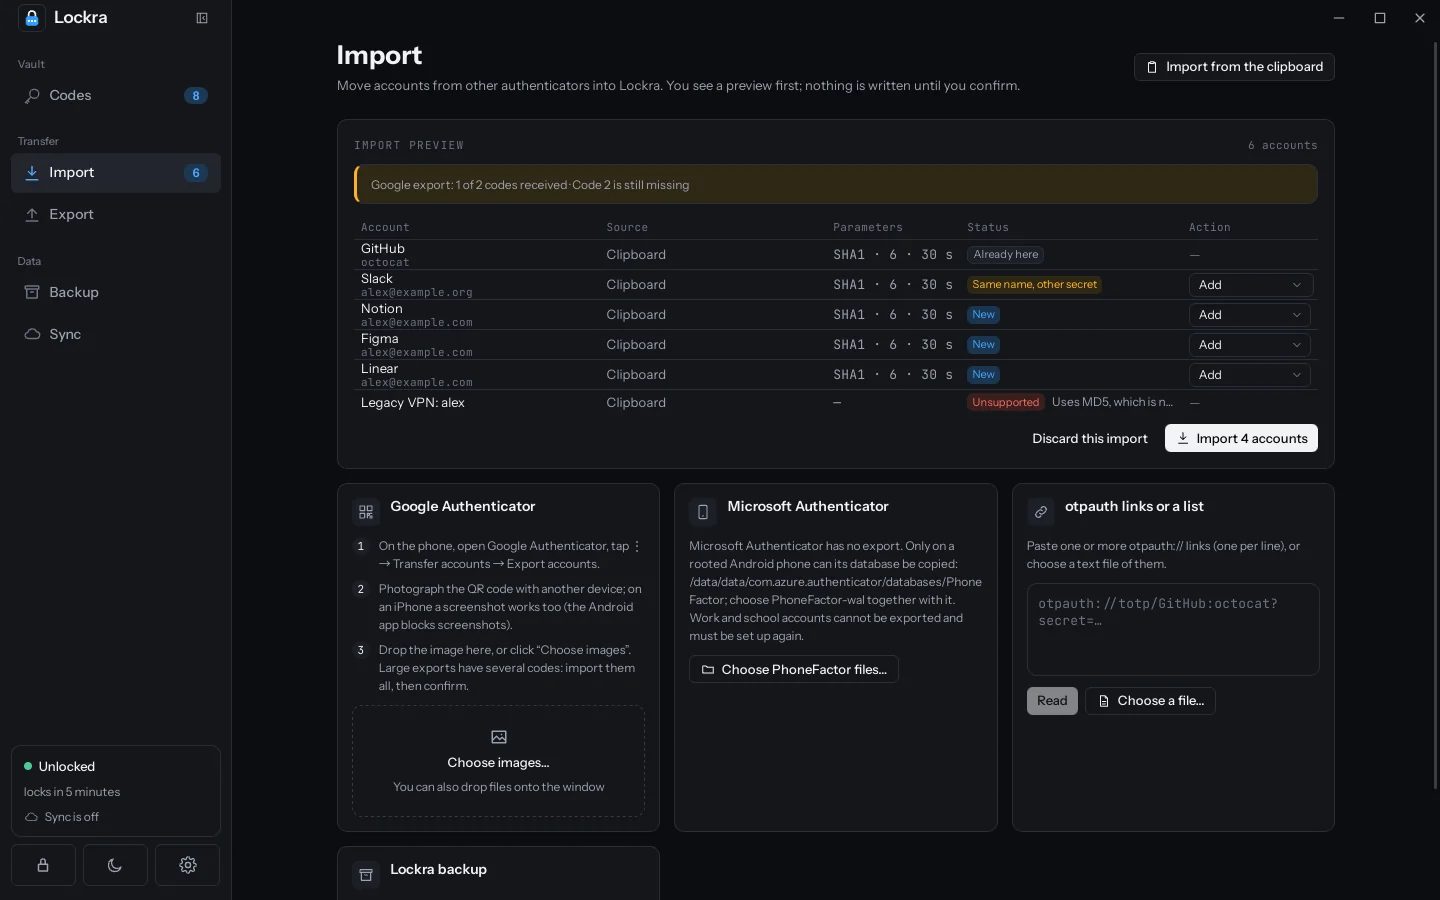
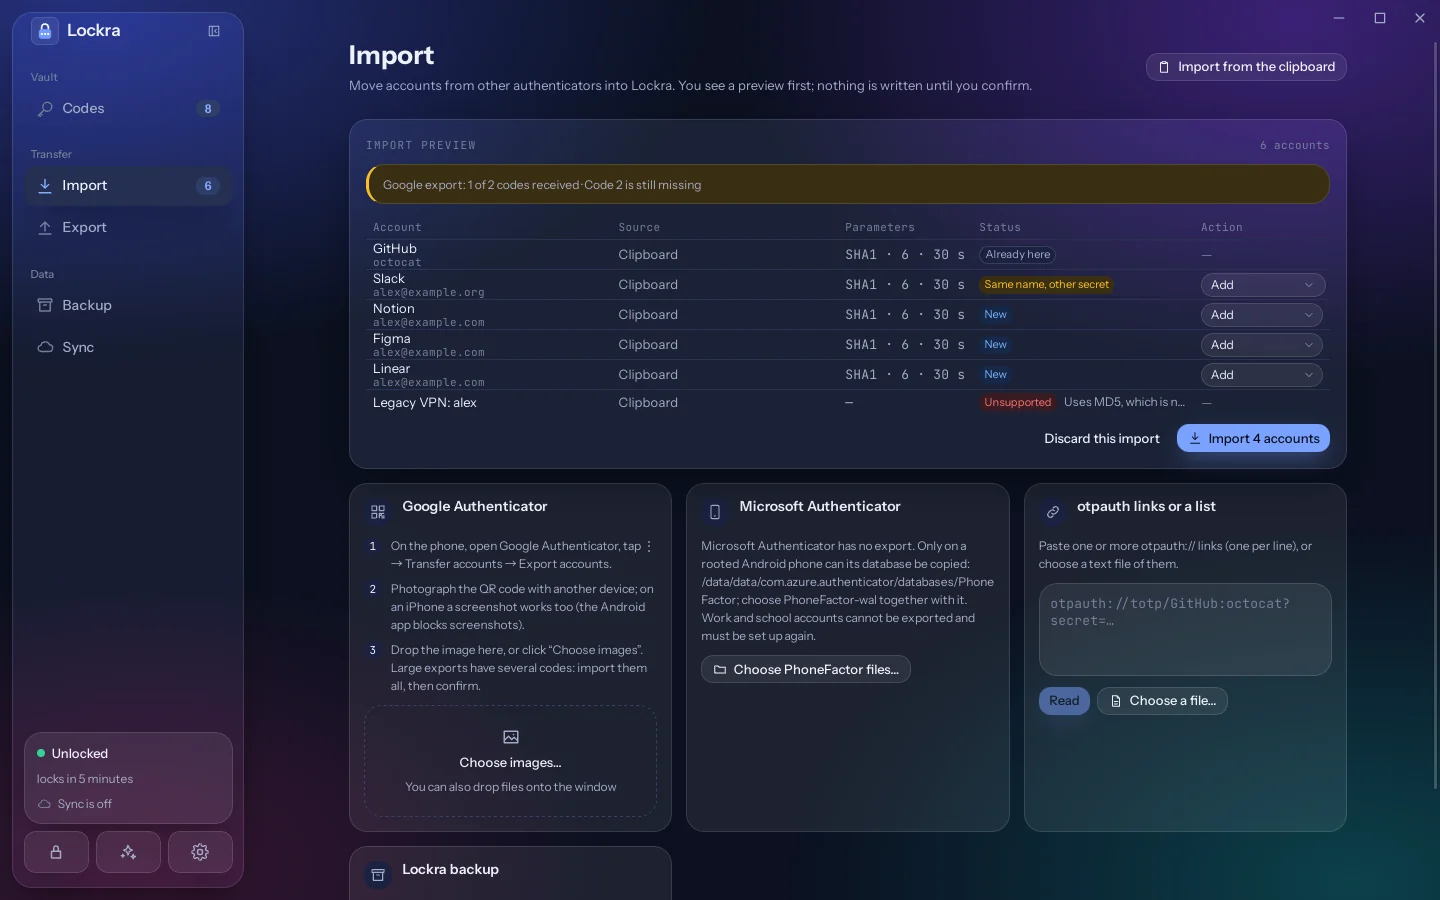
feat: 新安装默认使用澄空主题 (#120)
新安装默认「澄空」并跟随系统（深色系统显示「澄空 · 夜」）；已有保险库却没有 settings.json 的设备（0.9.1 以前从未改过设置）保持「明亮」，首次启动即写入 settings.json。页面在设置到达前先按澄空绘制；README 与文档站截图改用澄空 / 澄空 · 夜。

Release-As: 0.9.1

diff --git a/apps/desktop/src/pages/settings/Settings.test.tsx b/apps/desktop/src/pages/settings/Settings.test.tsx
@@ -70,7 +70,7 @@ describe("SettingsDialog", () => {
     const dialog = await openSettings(user, "外观");
     await user.click(dialog.getByRole("switch", { name: "跟随系统" }));
     expect(backend.calls.at(-1)).toMatchObject({
-      settings: { follow_system_theme: false, theme: "light" },
+      settings: { follow_system_theme: false, theme: "glass" },
     });
     await user.click(dialog.getByRole("radio", { name: /暖纸/ }));
     expect(document.documentElement.dataset.theme).toBe("warm");
@@ -108,18 +108,18 @@ describe("SettingsDialog", () => {
     expect(grid.getByText("浅色")).toBeInTheDocument();
     expect(grid.getByText("深色")).toBeInTheDocument();
     expect(dialog.getByText(/^跟随系统时，同一列的浅色与深色自动切换/)).toBeInTheDocument();
-    // jsdom's system is light: following it, the light column picked is what shows, linked to its
-    // dark one.
-    expect(grid.getByRole("radio", { name: "明亮" })).toHaveAttribute("aria-checked", "true");
-    expect(grid.getByTestId("theme-pair")).toHaveAttribute("data-column", "light");
-    await user.click(grid.getByRole("radio", { name: "澄空" }));
+    // jsdom's system is light: following it, the light column picked (澄空, the default) is what
+    // shows, linked to its dark one.
+    expect(grid.getByRole("radio", { name: "澄空" })).toHaveAttribute("aria-checked", "true");
+    expect(grid.getByTestId("theme-pair")).toHaveAttribute("data-column", "glass");
+    await user.click(grid.getByRole("radio", { name: "明亮" }));
     expect(backend.calls.at(-1)).toMatchObject({
       command: "settings_set",
-      settings: { theme: "glass", follow_system_theme: true },
+      settings: { theme: "light", follow_system_theme: true },
     });
-    expect(document.documentElement.dataset.theme).toBe("glass");
-    expect(dialog.getByText("跟随系统 · 现在是澄空")).toBeInTheDocument();
-    expect(grid.getByTestId("theme-pair")).toHaveAttribute("data-column", "glass");
+    expect(document.documentElement.dataset.theme).toBe("light");
+    expect(dialog.getByText("跟随系统 · 现在是明亮")).toBeInTheDocument();
+    expect(grid.getByTestId("theme-pair")).toHaveAttribute("data-column", "light");
     // The other scheme is a choice of its own: following stops, and it shows.
     await user.click(grid.getByRole("radio", { name: "墨白 · 夜" }));
     expect(backend.calls.at(-1)).toMatchObject({

diff --git a/packages/ui/src/hooks/appearance.test.tsx b/packages/ui/src/hooks/appearance.test.tsx
@@ -22,7 +22,8 @@ describe("useAppearance", () => {
       const { rerender } = renderHook(({ s }) => useAppearance(s), {
         initialProps: { s: settings },
       });
-      expect(document.documentElement.dataset.theme).toBe("dark");
+      // The default, 澄空, follows the system within its pair.
+      expect(document.documentElement.dataset.theme).toBe("glass_night");
       expect(document.documentElement.dataset.accent).toBe("purple");
       expect(document.documentElement.dataset.density).toBe("compact");
       rerender({ s: { ...settings, follow_system_theme: false, theme: "warm" } });
@@ -32,7 +33,7 @@ describe("useAppearance", () => {
       act(() => {
         for (const l of listeners) l();
       });
-      expect(document.documentElement.dataset.theme).toBe("light");
+      expect(document.documentElement.dataset.theme).toBe("glass");
     } finally {
       vi.unstubAllGlobals();
     }

diff --git a/packages/shared/src/schema.ts b/packages/shared/src/schema.ts
@@ -94,7 +94,7 @@ export type Settings = z.infer<typeof settingsSchema>;
 /** The defaults of lockra-core `Settings::default()` (the mock backend and the tests start here). */
 export function defaultSettings(): Settings {
   return {
-    theme: "light",
+    theme: "glass",
     follow_system_theme: true,
     accent: "default",
     density: "default",

diff --git a/apps/desktop/index.html b/apps/desktop/index.html
@@ -1,5 +1,5 @@
 <!doctype html>
-<html lang="zh-CN" data-theme="light">
+<html lang="zh-CN" data-theme="glass">
   <head>
     <meta charset="UTF-8" />
     <meta name="viewport" content="width=device-width, initial-scale=1.0" />

diff --git a/apps/mobile/index.html b/apps/mobile/index.html
@@ -1,5 +1,5 @@
 <!doctype html>
-<html lang="zh-CN" data-theme="light">
+<html lang="zh-CN" data-theme="glass">
   <head>
     <meta charset="UTF-8" />
     <meta

diff --git a/crates/lockra-core/src/settings.rs b/crates/lockra-core/src/settings.rs
@@ -9,12 +9,12 @@ use serde::{Deserialize, Serialize};
 
 /// The palettes of the design system (DESIGN.md). Following the system's scheme switches within a
 /// pair: light ↔ dark (warm and graphite follow it there too), glass ↔ glass night, paper ↔ paper
-/// night.
+/// night. New installs start on glass from 0.9.1, on light before
+/// ([`SettingsStore::load_at_start`]).
 #[derive(Debug, Clone, Copy, PartialEq, Eq, Default, Serialize, Deserialize)]
 #[serde(rename_all = "snake_case")]
 pub enum ThemeId {
     /// 明亮 · 白瓷.
-    #[default]
     Light,
     /// 暗黑 · 夜灯.
     Dark,
@@ -23,6 +23,7 @@ pub enum ThemeId {
     /// 石墨 · 仪表.
     Graphite,
     /// 澄空: frosted surfaces over an aurora.
+    #[default]
     Glass,
     /// 澄空 · 夜.
     GlassNight,
@@ -275,6 +276,22 @@ impl SettingsStore {
         }
     }
 
+    /// The settings Lockra starts with. Without `settings.json`, this is the first start here, or a
+    /// start after versions that never saved a setting: the settings are written then, so that a
+    /// default changed later does not change them. A vault already here means such an install from
+    /// before 0.9.1, whose default theme was light, and it keeps light.
+    pub fn load_at_start(&self, vault_exists: bool) -> Settings {
+        if self.path.exists() {
+            return self.load();
+        }
+        let theme = if vault_exists { ThemeId::Light } else { ThemeId::default() };
+        let settings = Settings { theme, ..Settings::default() };
+        if let Err(error) = self.save(&settings) {
+            tracing::warn!(%error, "settings.json could not be written; the settings hold for this run");
+        }
+        settings
+    }
+
     /// Write the settings (atomically, like the vault), with [`SETTINGS_SCHEMA`] first.
     pub fn save(&self, settings: &Settings) -> std::io::Result<()> {
         if let Some(dir) = self.path.parent() {
@@ -319,6 +336,34 @@ mod tests {
     fn missing_file_gives_defaults() {
         let dir = tempfile::tempdir().unwrap();
         assert_eq!(SettingsStore::new(dir.path()).load(), Settings::default());
+    }
+
+    #[test]
+    fn a_first_start_writes_the_defaults_and_an_install_from_before_0_9_1_keeps_light() {
+        let defaults = Settings::default();
+        assert_eq!((defaults.theme, defaults.follow_system_theme), (ThemeId::Glass, true));
+        // A first start: the defaults, written at once and read back as written from then on.
+        let dir = tempfile::tempdir().unwrap();
+        let store = SettingsStore::new(&dir.path().join("nested"));
+        assert_eq!(store.load_at_start(false), defaults);
+        assert_eq!(store.load(), defaults);
+        assert_eq!(store.load_at_start(true), defaults, "a vault made since does not make it older");
+        // A vault and no file: an install from before 0.9.1 that never saved a setting. It keeps
+        // 明亮, its default then.
+        let older = tempfile::tempdir().unwrap();
+        let store = SettingsStore::new(older.path());
+        let kept = store.load_at_start(true);
+        assert_eq!(kept, Settings { theme: ThemeId::Light, ..Settings::default() });
+        assert_eq!(store.load(), kept);
+        // A file already there is read as it is.
+        store.save(&Settings { theme: ThemeId::Paper, ..Settings::default() }).unwrap();
+        assert_eq!(store.load_at_start(true).theme, ThemeId::Paper);
+        // A config directory that cannot be written: the same choice, for this run.
+        let blocked = tempfile::tempdir().unwrap();
+        let not_a_dir = blocked.path().join("file");
+        fs::write(&not_a_dir, b"").unwrap();
+        assert_eq!(SettingsStore::new(&not_a_dir).load_at_start(true).theme, ThemeId::Light);
+        assert_eq!(SettingsStore::new(&not_a_dir).load_at_start(false), defaults);
     }
 
     #[test]
@@ -416,13 +461,14 @@ mod tests {
         // rest of the file survives: an older Lockra reads 0.8.7's themes the same way.
         fs::write(&path, r#"{"schema":2,"theme":"aurora","codes_view":"masonry","accent":"green"}"#).unwrap();
         let loaded = store.load();
-        assert_eq!((loaded.theme, loaded.codes_view, loaded.accent), (ThemeId::Light, CodesView::List, AccentId::Green));
+        assert_eq!((loaded.theme, loaded.codes_view, loaded.accent), (ThemeId::Glass, CodesView::List, AccentId::Green));
     }
 
     #[test]
     fn wire_names_are_stable() {
         let json = serde_json::to_value(Settings::default()).unwrap();
-        assert_eq!(json["theme"], "light");
+        assert_eq!(json["theme"], "glass");
+        assert_eq!(serde_json::to_value(ThemeId::Light).unwrap(), "light");
         assert_eq!(json["locale"], "system");
         assert_eq!(serde_json::to_value(LocaleSetting::ZhCn).unwrap(), "zh-cn");
         assert_eq!(json["auto_backup"]["keep"], 10);

diff --git a/scripts/smoke/site_screens.py b/scripts/smoke/site_screens.py
@@ -1,7 +1,8 @@
 #!/usr/bin/env python3
 """Screenshots for the documentation site (docs/site/public/screens), from the real app in one
 language: the codes page, the import preview of a Google Authenticator export and the backup page,
-in the light and dark themes at 1440 x 900, as <page>-<lang>-<theme>.webp. The accounts are made up
+at 1440 x 900, as <page>-<lang>-<scheme>.webp: the site's light figure in 澄空 and its dark one in
+澄空 · 夜, Lockra's default theme on a light and on a dark system. The accounts are made up
 (example.com addresses, secrets derived from their names). Run by scripts/capture-site-screens.sh,
 which owns Xvfb, the driver and the throwaway folders; the WebDriver session is the smoke test's.
 Every wait is a condition with a deadline.
@@ -25,7 +26,8 @@ from desktop import Session, until  # noqa: E402
 
 WIDTH, HEIGHT = 1440, 900
 PASSWORD = "site screenshots pass phrase"
-THEMES = ["light", "dark"]
+# The site's scheme, and the theme its figure is shot in.
+SCHEMES = {"light": "glass", "dark": "glass_night"}
 
 COPY = {
     "en": {
@@ -130,7 +132,7 @@ class Capture:
         subprocess.run(["xdotool", "mousemove", "--window", self.window, str(x - 1), str(y - 1), "mousemove", "--window", self.window, str(x), str(y)], env=self.env, check=True)
         self.web.run("document.activeElement?.blur()")
 
-    def shot(self, page, theme):
+    def shot(self, page, scheme):
         """A screenshot once two in a row agree (the countdown ring steps once a second), as WebP."""
         self.rest()
         last, deadline = None, time.monotonic() + 8
@@ -143,7 +145,7 @@ class Capture:
         picture = Image.open(io.BytesIO(image)).convert("RGB")
         if picture.size != (WIDTH, HEIGHT):
             sys.exit(f"site-screens: the screenshot is {picture.size}, expected {(WIDTH, HEIGHT)}")
-        path = os.path.join(self.args.out, f"{page}-{self.args.lang}-{theme}.webp")
+        path = os.path.join(self.args.out, f"{page}-{self.args.lang}-{scheme}.webp")
         picture.save(path, "WEBP", quality=85, method=6)
         print(f"site-screens: {path}")
 
@@ -153,7 +155,7 @@ class Capture:
         self.resize()
         web.invoke({"command": "vault_create", "password": PASSWORD})
         web.wait('[data-testid="page-codes"]')
-        self.settings(locale=copy["locale"], reduce_motion=True, follow_system_theme=False, theme="light")
+        self.settings(locale=copy["locale"], reduce_motion=True, follow_system_theme=False, theme="glass")
 
         bank, card = copy["bank"]
         accounts = [
@@ -184,16 +186,16 @@ class Capture:
         self.nav("codes")
         until("eight rows", lambda: len(web.find_all('[data-testid="entry-row"]')) == 8)
         self.quiet()
-        for theme in THEMES:
+        for scheme, theme in SCHEMES.items():
             self.theme(theme)
             # Mid-window: no code in its last five seconds, when the next one would show beside it.
             until("the middle of a 30-second window", lambda: 5 <= time.time() % 30 <= 15, timeout=40)
-            self.shot("codes", theme)
+            self.shot("codes", scheme)
 
         self.nav("backup")
-        for theme in THEMES:
+        for scheme, theme in SCHEMES.items():
             self.theme(theme)
-            self.shot("backup", theme)
+            self.shot("backup", scheme)
 
         # The first of two export codes, with one account of each kind the preview tells apart.
         batch = [
@@ -215,9 +217,9 @@ class Capture:
         web.wait('[data-testid="import-preview"]')
         until("six accounts in the preview", lambda: len(web.invoke({"command": "app_state"})["import"]["candidates"]) == 6)
         self.quiet()
-        for theme in THEMES:
+        for scheme, theme in SCHEMES.items():
             self.theme(theme)
-            self.shot("import", theme)
+            self.shot("import", scheme)
         web.invoke({"command": "import_cancel"})
         web.quit()
 

diff --git a/scripts/smoke/desktop.py b/scripts/smoke/desktop.py
@@ -3,15 +3,15 @@
 with real X input where it matters (typing the master password, Ctrl+L) and the X clipboard
 (xclip). Run by scripts/smoke-desktop-linux.sh, which owns Xvfb, the driver and the data dirs.
 
-Checks: create a vault by typing; import an otpauth link from the clipboard; the copied code
-equals an independent RFC 6238 computation; lock and unlock; Google's export QR code decodes
-(rxing, scripts' decode-qr) back to the same account; then screenshots of every page at three
-window sizes in the light and dark themes, plus the empty, long and 200-account states; Touch ID
-turned on from the unlock screen's pointer and unlocking with it (the debug build's stand-in check);
-an account's colour and avatar text, folded groups, a row's right-click menu, several accounts
-ticked and moved to a group at once, the group picker's list, and accounts reordered by a handle;
-the newer themes (澄空, 墨白 and their nights) as a list and as cards, a card and a row just copied,
-and Settings › 外观's grid of eight themes.
+Checks: a new install on 澄空, the default theme; create a vault by typing; import an otpauth link
+from the clipboard; the copied code equals an independent RFC 6238 computation; lock and unlock;
+Google's export QR code decodes (rxing, scripts' decode-qr) back to the same account; then
+screenshots of every page at three window sizes in the light and dark themes, plus the empty, long
+and 200-account states; Touch ID turned on from the unlock screen's pointer and unlocking with it
+(the debug build's stand-in check); an account's colour and avatar text, folded groups, a row's
+right-click menu, several accounts ticked and moved to a group at once, the group picker's list, and
+accounts reordered by a handle; the newer themes (澄空, 墨白 and their nights) as a list and as cards, a
+card and a row just copied, and Settings › 外观's grid of eight themes.
 Every wait is a condition with a deadline; nothing sleeps for a fixed time to "let it finish".
 """
 
@@ -266,6 +266,11 @@ class Smoke:
     def run(self):
         web = self.web
         self.page("welcome")
+        # A new install starts on 澄空, following the system (light under Xvfb). The screenshots
+        # are named for the theme they show, here 明亮.
+        until("the default theme, 澄空", lambda: web.run("return document.documentElement.dataset.theme") == "glass")
+        self.settings(follow_system_theme=False, theme="light")
+        until("the light theme", lambda: web.run("return document.documentElement.dataset.theme") == "light")
         self.shot("welcome-1152-light")
         # The title bar's close button, for the close test the shell script runs afterwards.
         rect = web.run("const b = [...document.querySelectorAll('header button')].find((e) => e.getAttribute('aria-label') === '关闭'); const r = b.getBoundingClientRect(); return [r.x + r.width / 2, r.y + r.height / 2, innerWidth, innerHeight];")

diff --git a/crates/lockra-core/src/tests.rs b/crates/lockra-core/src/tests.rs
@@ -960,6 +960,24 @@ async fn settings_are_saved_normalized_and_reloaded() {
 }
 
 #[tokio::test(start_paused = true)]
+async fn a_new_install_starts_on_glass_and_one_from_before_0_9_1_keeps_light() {
+    // A new install: 澄空, following the system (澄空 · 夜 on a dark one).
+    let h = harness();
+    let settings = h.core.state().settings;
+    assert_eq!((settings.theme, settings.follow_system_theme), (ThemeId::Glass, true));
+    h.core.create_vault(pw(MASTER)).await.unwrap();
+    // Its first start wrote the file: the vault made since does not make it look older.
+    assert_eq!(h.restart().state().settings.theme, ThemeId::Glass);
+    // A vault and no settings.json: an install from before 0.9.1 that never saved a setting,
+    // whose default was 明亮. It stays on it, from then on in the file.
+    let file = h.dir.path().join("config").join("settings.json");
+    fs::remove_file(&file).unwrap();
+    assert_eq!(h.restart().state().settings, Settings { theme: ThemeId::Light, ..Settings::default() });
+    assert!(fs::read_to_string(&file).unwrap().contains(r#""theme": "light""#));
+    assert_eq!(h.restart().state().settings.theme, ThemeId::Light);
+}
+
+#[tokio::test(start_paused = true)]
 async fn state_and_events_never_carry_a_secret() {
     let mut h = Harness::unlocked().await;
     let id = h.core.add_uri(&otpauth("GitHub", "octocat", SECRET)).unwrap();
@@ -1110,8 +1128,7 @@ async fn a_pinned_group_is_kept_for_this_device_only() {
     restarted.backup_to(file.clone(), None).await.unwrap();
     let backup = Sealed::open_with_password(&fs::read(&file).unwrap(), MASTER.as_bytes()).unwrap();
     assert!(!String::from_utf8_lossy(&backup.payload).contains("pinned"));
-    // (No setting changed here, so the file may not exist at all.)
-    let plain = fs::read_to_string(h.dir.path().join("config").join("settings.json")).unwrap_or_default();
+    let plain = fs::read_to_string(h.dir.path().join("config").join("settings.json")).unwrap();
     assert!(!plain.contains("pinned") && !plain.contains("Work"), "{plain}");
     // Unpinned.
     restarted.pin_group(None).unwrap();

diff --git a/crates/lockra-core/src/session.rs b/crates/lockra-core/src/session.rs
@@ -214,7 +214,6 @@ impl Core {
     /// Open the core on `config` and start its scheduler; call from inside a tokio runtime.
     pub fn start(config: CoreConfig, ports: Ports) -> Self {
         let settings_store = SettingsStore::new(&config.config_dir);
-        let settings = settings_store.load();
         let vault_path = config.data_dir.join(VAULT_FILE);
         let (phase, vault_id, device_slot, device_check) = match fs::read(&vault_path) {
             Ok(bytes) => match read_header(&bytes) {
@@ -224,6 +223,7 @@ impl Core {
             },
             Err(_) => (PhaseState::NoVault, None, false, None),
         };
+        let settings = settings_store.load_at_start(!matches!(phase, PhaseState::NoVault));
         let update = UpdateState::new(settings.auto_update && ports.updater.method().is_some_and(InstallMethod::installs));
         let state = State {
             phase,

diff --git a/docs/site/README.md b/docs/site/README.md
@@ -117,8 +117,10 @@ the buttons link to the install guide and the releases page.
 
 ## Screenshots
 
-Screenshots are WebP files in `public/screens/`, named `<page>-<lang>-<theme>.webp`, 1440 × 900 at
-device pixel ratio 1, WebP quality 85. They come from the real app with made-up accounts:
+Screenshots are WebP files in `public/screens/`, named `<page>-<lang>-<scheme>.webp`, 1440 × 900 at
+device pixel ratio 1, WebP quality 85: the `light` figure shows the app in 澄空, the `dark` one in
+澄空 · 夜, Lockra's default theme on a light and on a dark system. They come from the real app with
+made-up accounts:
 
 ```bash
 make site-screens     # scripts/capture-site-screens.sh docs/site/public/screens
@@ -127,7 +129,7 @@ make site-screens     # scripts/capture-site-screens.sh docs/site/public/screens
 The script builds the app, starts it under Xvfb once per language in throwaway folders, and lets
 `scripts/smoke/site_screens.py` create a vault, add eight accounts, run an automatic backup and
 read a Google Authenticator export code from the clipboard. It captures the codes page, the
-backup page and the import preview, each in the light and the dark theme. It needs what
+backup page and the import preview, each in 澄空 and in 澄空 · 夜. It needs what
 `make smoke-desktop` needs (Xvfb, xdotool, xclip, tauri-driver, WebKitWebDriver) plus Pillow and
 cairosvg for Python.
 

diff --git a/docs/site/zh/accounts/codes.md b/docs/site/zh/accounts/codes.md
@@ -111,6 +111,12 @@
 
 「设置 › 外观」提供 8 个主题，浅色主题在上，深色主题在下。除「明亮」「暗黑」「暖纸」「石墨」外，「澄空」在柔和的渐变背景上显示磨砂卡片，「墨白」以黑色墨迹呈现在纸面上；「澄空 · 夜」和「墨白 · 夜」是它们的深色版本。开启「跟随系统」后，同一列的浅色与深色主题会随系统自动切换。「暖纸」和「石墨」不跟随系统：选择它们，或选择与系统明暗相反的主题，会关闭「跟随系统」。
 
+## 默认主题
+
+<StatusTag status="building" />
+
+新安装的 Lockra 默认使用「澄空」并开启「跟随系统」，系统为深色时显示「澄空 · 夜」。此前版本已安装的 Lockra 保持原来的主题。
+
 ## 排序
 
 排序菜单可以按名称、最近添加或最近使用排列列表。无论哪种排序，收藏的账号都排在最前。
